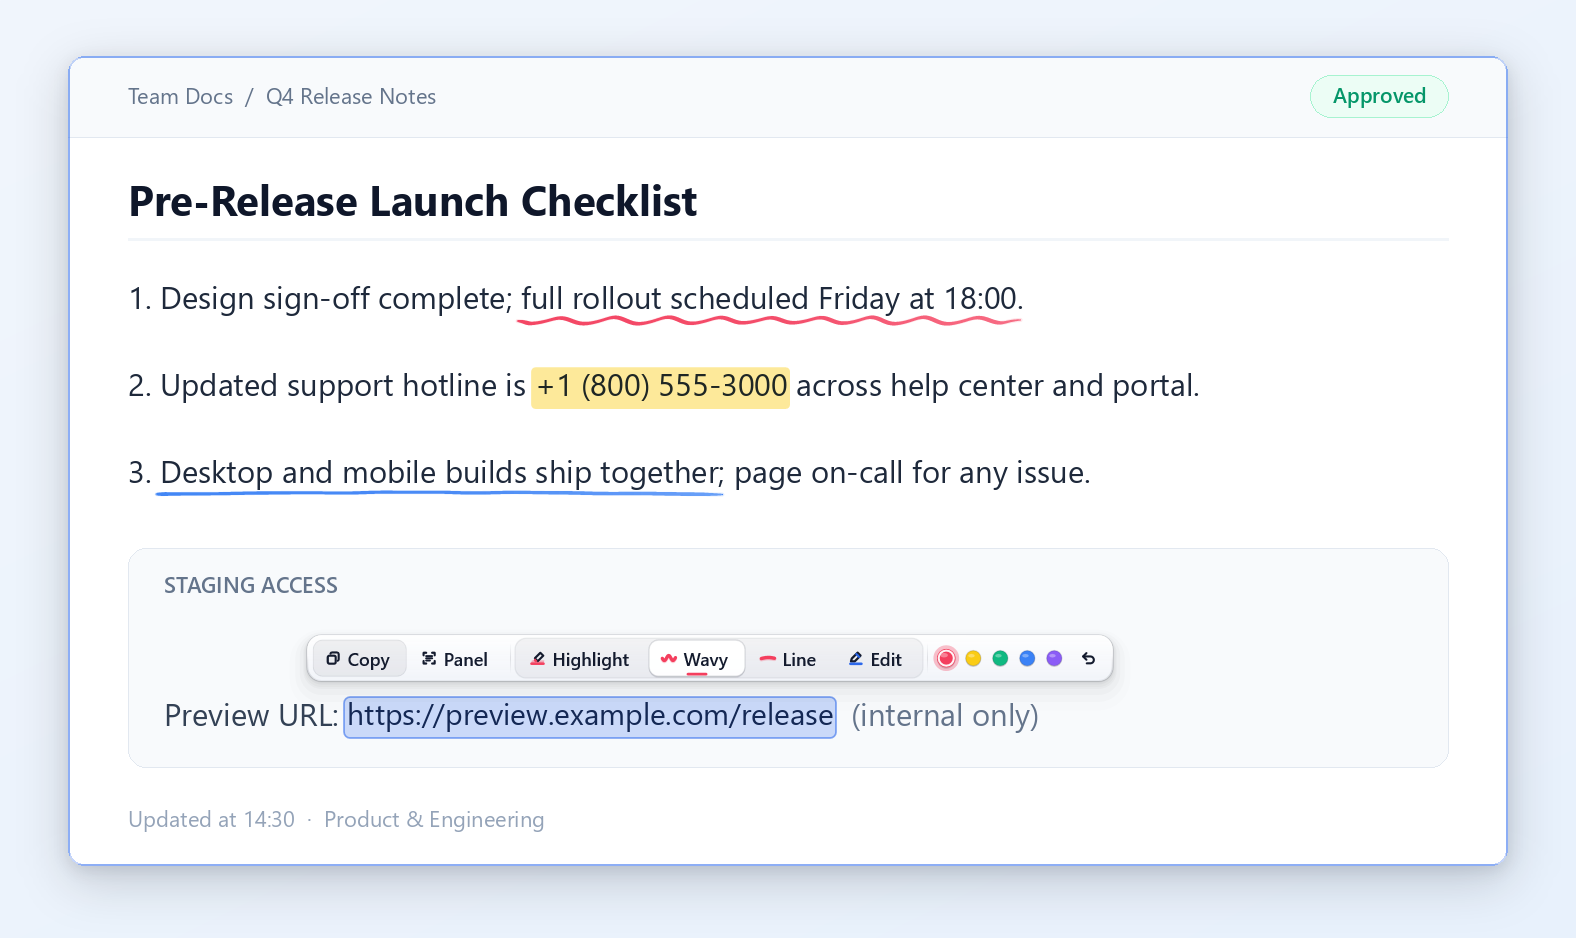
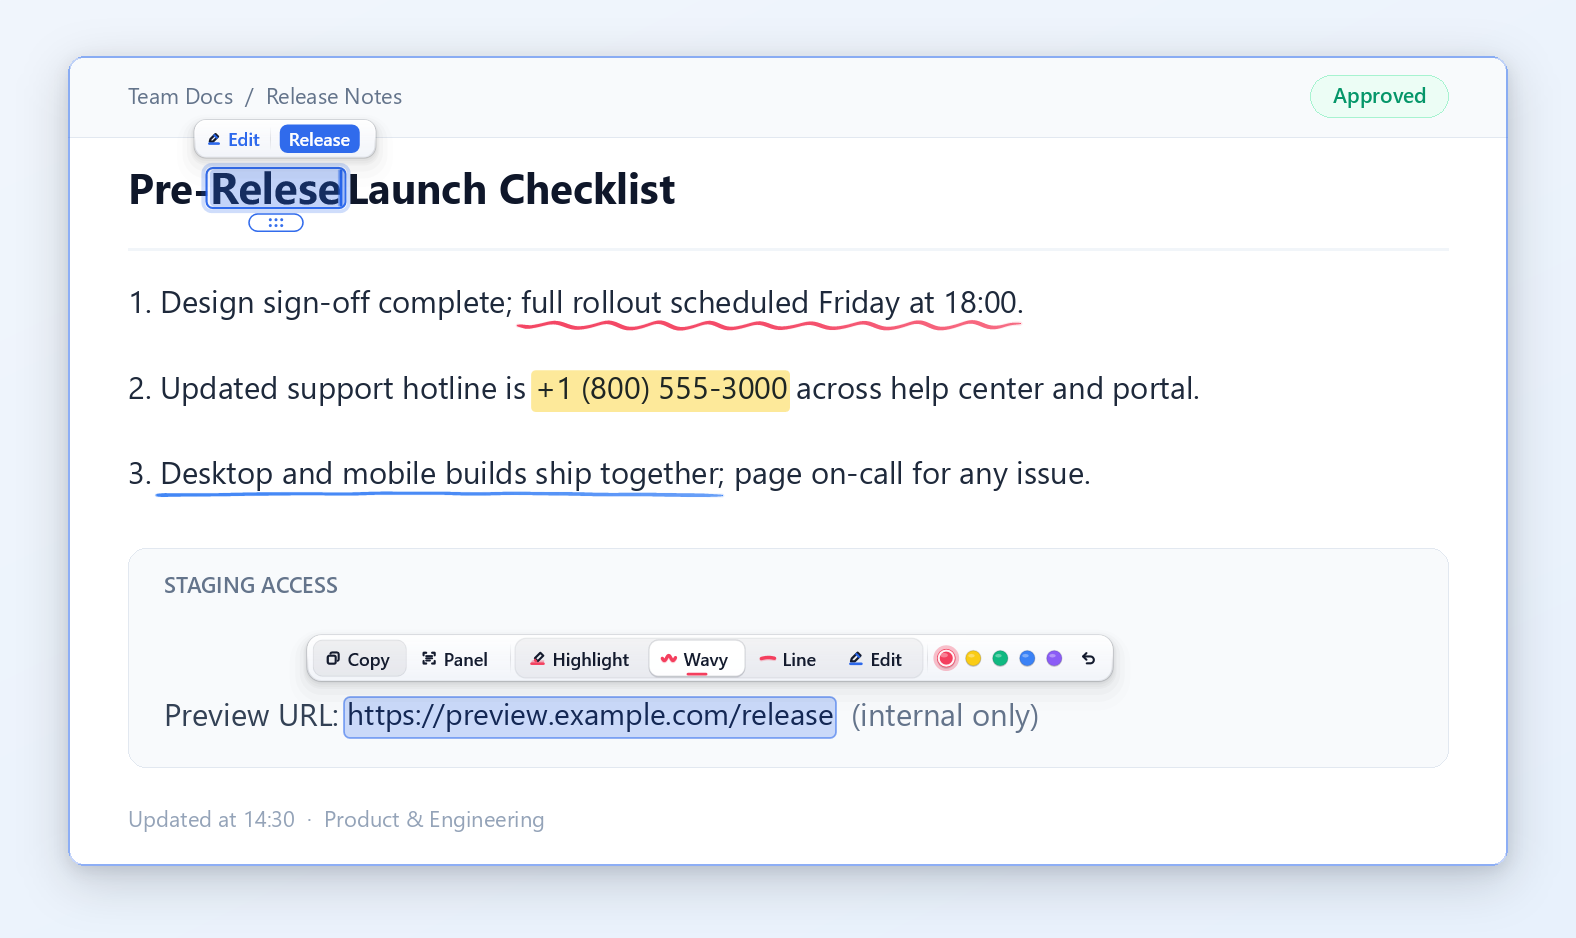
增强拍屏低反差 OCR 识别、修复贴图上下跨区拖选截断并补齐双语原位改字展示图
[业务角度]
- 提升手机拍屏 ERP 表格等低反差深灰表头与强摩尔纹场景下的离线 OCR 召回率与字准（补齐深灰表头文字及紧贴黑线的短数字），原生清晰桌面截图保持零耗时直通
- 修复贴图窗口在上下堆叠多版面图片上从上往下流式拖选时右侧文字被隐形竖线截断的体验问题，确保拖选所见即所得
- 更新中英双语 README 首屏展示图，以“新版本发[不|]前核对清单”原位编辑错别字直观呈现原位无痕改字能力

[技术角度]
- 在 DeepOcrEngine 新增 isLowContrastScreenPhoto 快采样判据与 enhanceLowContrastForDetection（LAB 色度通道高斯平滑去彩纹 + L 通道温和 CLAHE 融合），实行检测/识别双分支解耦并将识别切片低反差拉伸阈值放宽至 132
- 在 PinWindow 跨版面分区流式选字分支中引入 sideBySideColumns 几何判别，仅真正左右并排双栏走带可见引导框（m_showCrossRegionRectGuide）的二维围选，上下堆叠分区维持完整阅读序流式选字
- 新增 DeepOcrLowContrastScreenPhotoEnhancementTest 与真窗口回归测试 PinWindowCrossRegionVerticalFlowSelectionTest，全套单测及日志/内存门禁通过

diff --git a/src/capture/PinWindow.cpp b/src/capture/PinWindow.cpp
@@ -2917,6 +2917,7 @@ void PinWindow::clearTextSelection() {
     m_hoveredBlockIndex = -1;
     m_isSelectingText = false;
     m_isCharStreamSelecting = false;
+    m_showCrossRegionRectGuide = false;
     m_anchorBlockIndex = -1;
     m_anchorCharIndex = 0;
     m_ocrMarkupPreviewClean = false;
@@ -4743,8 +4744,8 @@ void PinWindow::render() {
                 ? (sumSelCenterX / static_cast<float>(selRectCount))
                 : (size.width * 0.5f);
 
-            // 3. Alt 矩形框选模式时绘制橡皮筋框（流式逐字拖选紧贴文字本身，无需画矩形外框）
-            if (m_isSelectingText && !m_isCharStreamSelecting) {
+            // 3. Alt 矩形框选模式或真正跨左右双栏围选时绘制橡皮筋引导框，确保所见即所得（杜绝无视觉提示的“隐形竖刀”截断）
+            if (m_isSelectingText && (!m_isCharStreamSelecting || m_showCrossRegionRectGuide)) {
                 float sx1 = static_cast<float>((std::min)(m_selectStart.x, m_selectEnd.x));
                 float sy1 = static_cast<float>((std::min)(m_selectStart.y, m_selectEnd.y));
                 float sx2 = static_cast<float>((std::max)(m_selectStart.x, m_selectEnd.x));
@@ -6570,6 +6571,7 @@ LRESULT CALLBACK PinWindow::pinWndProc(HWND hwnd, UINT msg, WPARAM wParam, LPARA
 
                                 std::vector<size_t> newIndices;
                                 std::vector<PinBlockCharSpan> newSpans;
+                                self->m_showCrossRegionRectGuide = false;
 
                                 if (targetBlock == self->m_anchorBlockIndex) {
                                     const auto& blk = self->m_ocrBlocks[static_cast<size_t>(targetBlock)];
@@ -6656,35 +6658,90 @@ LRESULT CALLBACK PinWindow::pinWndProc(HWND hwnd, UINT msg, WPARAM wParam, LPARA
                                         }
                                     }
                                 } else if (targetBlock >= 0) {
-                                    // 跨不同版面分栏拖选时自动转为二维几何包围框选字，绝不跨栏卷入整列无关行
-                                    const float sx1 = (std::min)(startMx, curMx);
-                                    const float sy1 = (std::min)(startMy, curMy);
-                                    const float sx2 = (std::max)(startMx, curMx);
-                                    const float sy2 = (std::max)(startMy, curMy);
-                                    for (size_t i = 0; i < self->m_ocrBlocks.size(); ++i) {
-                                        const auto& blk = self->m_ocrBlocks[i];
-                                        const auto& b = blk.origBox;
-                                        if (static_cast<float>(b.x + b.width) < sx1 ||
-                                            static_cast<float>(b.x) > sx2 ||
-                                            static_cast<float>(b.y + b.height) < sy1 ||
-                                            static_cast<float>(b.y) > sy2) {
-                                            continue;
-                                        }
-                                        size_t firstC = blk.charBoxes.size();
-                                        size_t lastC = 0;
-                                        for (size_t c = 0; c < blk.charBoxes.size(); ++c) {
-                                            const auto& cb = blk.charBoxes[c];
-                                            const float cx = static_cast<float>(cb.x) + static_cast<float>(cb.width) * 0.5f;
-                                            if (cx >= sx1 && cx <= sx2 &&
-                                                static_cast<float>(cb.y + cb.height) >= sy1 &&
-                                                static_cast<float>(cb.y) <= sy2) {
-                                                firstC = (std::min)(firstC, c);
-                                                lastC = (std::max)(lastC, c + 1);
+                                    // 判断起止分区是否为真正的「左右并排双栏」：
+                                    // - 仅左右并排双栏（垂直显著重叠且水平分离）采用带可见引导框的二维围选，防止跨栏误卷无关列；
+                                    // - 上下堆叠分段（如上方表格 + 下方装箱卡/标题 + 正文）维持自然阅读序流式选字，绝不静默腰斩右侧文字！
+                                    const int targetRegId = self->m_ocrBlocks[static_cast<size_t>(targetBlock)].layoutRegionId;
+                                    auto computeRegionBounds = [&](int rid) {
+                                        float rx1 = FLT_MAX, ry1 = FLT_MAX, rx2 = -FLT_MAX, ry2 = -FLT_MAX;
+                                        for (const auto& rb : self->m_ocrBlocks) {
+                                            if (rb.layoutRegionId == rid) {
+                                                rx1 = (std::min)(rx1, static_cast<float>(rb.origBox.x));
+                                                ry1 = (std::min)(ry1, static_cast<float>(rb.origBox.y));
+                                                rx2 = (std::max)(rx2, static_cast<float>(rb.origBox.x + rb.origBox.width));
+                                                ry2 = (std::max)(ry2, static_cast<float>(rb.origBox.y + rb.origBox.height));
                                             }
                                         }
-                                        if (firstC < lastC) {
-                                            newIndices.push_back(i);
-                                            newSpans.push_back(PinBlockCharSpan{i, firstC, lastC});
+                                        return std::array<float, 4>{rx1, ry1, rx2, ry2};
+                                    };
+                                    const auto aB = computeRegionBounds(anchorRegId);
+                                    const auto tB = computeRegionBounds(targetRegId);
+                                    const float aW = (std::max)(1.0f, aB[2] - aB[0]);
+                                    const float aH = (std::max)(1.0f, aB[3] - aB[1]);
+                                    const float tW = (std::max)(1.0f, tB[2] - tB[0]);
+                                    const float tH = (std::max)(1.0f, tB[3] - tB[1]);
+                                    const float overlapX = (std::max)(0.0f, (std::min)(aB[2], tB[2]) - (std::max)(aB[0], tB[0]));
+                                    const float overlapY = (std::max)(0.0f, (std::min)(aB[3], tB[3]) - (std::max)(aB[1], tB[1]));
+                                    const bool sideBySideColumns =
+                                        (overlapY / (std::min)(aH, tH) >= 0.40f) &&
+                                        (overlapX / (std::min)(aW, tW) < 0.25f);
+
+                                    if (sideBySideColumns) {
+                                        self->m_showCrossRegionRectGuide = true;
+                                        const float sx1 = (std::min)(startMx, curMx);
+                                        const float sy1 = (std::min)(startMy, curMy);
+                                        const float sx2 = (std::max)(startMx, curMx);
+                                        const float sy2 = (std::max)(startMy, curMy);
+                                        for (size_t i = 0; i < self->m_ocrBlocks.size(); ++i) {
+                                            const auto& blk = self->m_ocrBlocks[i];
+                                            const auto& b = blk.origBox;
+                                            if (static_cast<float>(b.x + b.width) < sx1 ||
+                                                static_cast<float>(b.x) > sx2 ||
+                                                static_cast<float>(b.y + b.height) < sy1 ||
+                                                static_cast<float>(b.y) > sy2) {
+                                                continue;
+                                            }
+                                            size_t firstC = blk.charBoxes.size();
+                                            size_t lastC = 0;
+                                            for (size_t c = 0; c < blk.charBoxes.size(); ++c) {
+                                                const auto& cb = blk.charBoxes[c];
+                                                const float cx = static_cast<float>(cb.x) + static_cast<float>(cb.width) * 0.5f;
+                                                if (cx >= sx1 && cx <= sx2 &&
+                                                    static_cast<float>(cb.y + cb.height) >= sy1 &&
+                                                    static_cast<float>(cb.y) <= sy2) {
+                                                    firstC = (std::min)(firstC, c);
+                                                    lastC = (std::max)(lastC, c + 1);
+                                                }
+                                            }
+                                            if (firstC < lastC) {
+                                                newIndices.push_back(i);
+                                                newSpans.push_back(PinBlockCharSpan{i, firstC, lastC});
+                                            }
+                                        }
+                                    } else {
+                                        // 上下堆叠跨区流式选字：按阅读序自然跨过全行内容，右侧字符完整保留
+                                        const size_t caretChar = locateNearestCharInBlock(
+                                            self->m_ocrBlocks[static_cast<size_t>(targetBlock)], curMx);
+                                        int b1 = self->m_anchorBlockIndex;
+                                        size_t c1 = self->m_anchorCharIndex;
+                                        int b2 = targetBlock;
+                                        size_t c2 = caretChar;
+                                        if (b1 > b2) {
+                                            std::swap(b1, b2);
+                                            std::swap(c1, c2);
+                                        }
+                                        for (int b = b1; b <= b2; ++b) {
+                                            const auto& blk = self->m_ocrBlocks[static_cast<size_t>(b)];
+                                            const size_t totalC = blk.charBoxes.size();
+                                            if (totalC == 0) continue;
+                                            size_t sc = 0;
+                                            size_t ec = totalC;
+                                            if (b == b1) sc = (std::min)(c1, totalC - 1);
+                                            if (b == b2) ec = (std::min)(totalC, c2 + 1);
+                                            if (sc < ec) {
+                                                newIndices.push_back(static_cast<size_t>(b));
+                                                newSpans.push_back(PinBlockCharSpan{static_cast<size_t>(b), sc, ec});
+                                            }
                                         }
                                     }
                                 }
@@ -6847,6 +6904,7 @@ LRESULT CALLBACK PinWindow::pinWndProc(HWND hwnd, UINT msg, WPARAM wParam, LPARA
                 self->m_isSelectingReplaceText = false;
                 self->m_isDraggingReplacePos = false;
                 self->m_isCharStreamSelecting = false;
+                self->m_showCrossRegionRectGuide = false;
             }
             return 0;
         }
@@ -6871,6 +6929,7 @@ LRESULT CALLBACK PinWindow::pinWndProc(HWND hwnd, UINT msg, WPARAM wParam, LPARA
                 if (self->m_isSelectingText) {
                     self->m_isSelectingText = false;
                     self->m_isCharStreamSelecting = false;
+                    self->m_showCrossRegionRectGuide = false;
                     ReleaseCapture();
                     self->render();
                     return 0;

diff --git a/src/ocr/DeepOcrEngine.cpp b/src/ocr/DeepOcrEngine.cpp
@@ -1085,6 +1085,82 @@ bool DeepOcrEngine::ensureModelsLoadedLocked(const std::filesystem::path& modelD
     }
 }
 
+bool DeepOcrEngine::isLowContrastScreenPhoto(const cv::Mat& bgr) {
+    if (bgr.empty() || bgr.cols < 64 || bgr.rows < 64 || bgr.type() != CV_8UC3) {
+        return false;
+    }
+
+    // 4px 步长快采样 (< 0.2ms)，精准区分原生数字渲染截图与手机实拍/屏摄低反差摩尔纹照片
+    constexpr int kStep = 4;
+    uint32_t sampled = 0;
+    uint32_t midGrayCount = 0;
+    uint32_t pureWhiteCount = 0;
+    uint32_t flatPairs = 0;
+    uint32_t totalPairs = 0;
+
+    for (int y = 0; y < bgr.rows; y += kStep) {
+        const auto* row = bgr.ptr<cv::Vec3b>(y);
+        int prevLum = -1;
+        for (int x = 0; x < bgr.cols; x += kStep) {
+            const int lum = (static_cast<int>(row[x][0]) * 29 +
+                             static_cast<int>(row[x][1]) * 150 +
+                             static_cast<int>(row[x][2]) * 77) >> 8;
+            ++sampled;
+            if (lum >= 50 && lum <= 200) ++midGrayCount;
+            if (lum >= 242) ++pureWhiteCount;
+            if (x + 1 < bgr.cols) {
+                const int nextLum = (static_cast<int>(row[x + 1][0]) * 29 +
+                                     static_cast<int>(row[x + 1][1]) * 150 +
+                                     static_cast<int>(row[x + 1][2]) * 77) >> 8;
+                ++totalPairs;
+                if (nextLum == lum) ++flatPairs;
+            }
+            prevLum = lum;
+        }
+        (void)prevLum;
+    }
+
+    if (sampled < 64 || totalPairs < 64) {
+        return false;
+    }
+
+    const float flatRatio = static_cast<float>(flatPairs) / static_cast<float>(totalPairs);
+    const float midGrayRatio = static_cast<float>(midGrayCount) / static_cast<float>(sampled);
+    const float pureWhiteRatio = static_cast<float>(pureWhiteCount) / static_cast<float>(sampled);
+
+    // 原生数字截图平坦度通常 >= 0.70 或具有大片纯白底色；实拍/屏摄照片通常平坦度 < 0.45 且大面积挤在中灰区间
+    return (flatRatio < 0.45f) && (midGrayRatio >= 0.45f) && (pureWhiteRatio < 0.15f);
+}
+
+cv::Mat DeepOcrEngine::enhanceLowContrastForDetection(const cv::Mat& bgr) {
+    if (!isLowContrastScreenPhoto(bgr)) {
+        return bgr;
+    }
+
+    // LAB 空间分离亮度和色度：平滑 a/b 色度通道压制手机拍屏 RGB 彩色摩尔纹，
+    // 对 L 亮度通道执行受限局部直方图均衡 (CLAHE) 并与原图柔和融合，避免过度锐化振铃伪影。
+    cv::Mat lab;
+    cv::cvtColor(bgr, lab, cv::COLOR_BGR2Lab);
+    std::vector<cv::Mat> channels;
+    cv::split(lab, channels);
+    if (channels.size() != 3) {
+        return bgr;
+    }
+
+    cv::GaussianBlur(channels[1], channels[1], cv::Size(5, 5), 1.2);
+    cv::GaussianBlur(channels[2], channels[2], cv::Size(5, 5), 1.2);
+
+    auto clahe = cv::createCLAHE(2.2, cv::Size(8, 8));
+    cv::Mat lEq;
+    clahe->apply(channels[0], lEq);
+    cv::addWeighted(lEq, 0.68, channels[0], 0.32, 0.0, channels[0]);
+
+    cv::Mat enhancedLab, enhancedBgr;
+    cv::merge(channels, enhancedLab);
+    cv::cvtColor(enhancedLab, enhancedBgr, cv::COLOR_Lab2BGR);
+    return enhancedBgr;
+}
+
 std::vector<DbDetectedQuad> DeepOcrEngine::postprocessDbMap(
     const cv::Mat& probMapInput,
     int origWidth,
@@ -1620,6 +1696,7 @@ std::vector<OcrResult> DeepOcrEngine::extractText(const cv::Mat& image) {
             cv::Mat detValid;
             cv::resize(bgr, detValid, cv::Size(validW, validH), 0.0, 0.0,
                        fitScale < 1.0f ? cv::INTER_AREA : cv::INTER_LINEAR);
+            detValid = enhanceLowContrastForDetection(detValid);
 
             cv::Mat detCanvas;
             if (validW == canvasW && validH == canvasH) {
@@ -1703,6 +1780,7 @@ std::vector<OcrResult> DeepOcrEngine::extractText(const cv::Mat& image) {
             cv::Mat detResized;
             cv::resize(bgr, detResized, cv::Size(alignW, alignH), 0.0, 0.0,
                        desiredRatio < 1.0f ? cv::INTER_AREA : cv::INTER_LINEAR);
+            detResized = enhanceLowContrastForDetection(detResized);
             cv::Mat detBlob = makeDbNetBlob(detResized);
             m_detNet.setInput(detBlob);
             probOut = m_detNet.forward();
@@ -1882,8 +1960,8 @@ std::vector<OcrResult> DeepOcrEngine::extractText(const cv::Mat& image) {
         };
 
         // 弱对比度屏摄/反光灰字条带自适应提纯：
-        // 仅在送入 SVTR 前的 48px 高度条带灰度动态范围 (P95 - P05) 落在 [16, 112) 时生效，
-        // 通过查表平滑拉伸动态范围（增益上限 2.35x），正常高对比度截图 (>=112) 100% 零改动直通。
+        // 仅在送入 SVTR 前的 48px 高度条带灰度动态范围 (P95 - P05) 落在 [16, 132) 时生效，
+        // 通过查表平滑拉伸动态范围（增益上限 2.35x），正常高对比度截图 (>=132) 100% 零改动直通。
         auto enhanceLowContrastStripCrop = [](cv::Mat& bgr48) {
             if (bgr48.empty() || bgr48.type() != CV_8UC3) return;
             std::array<uint32_t, 256> hist{};
@@ -1913,7 +1991,7 @@ std::vector<OcrResult> DeepOcrEngine::extractText(const cv::Mat& image) {
             const int p95 = pctBin((total * 95u) / 100u);
             const int p98 = pctBin((total * 98u) / 100u);
             const int dynRange = p95 - p05;
-            if (dynRange < 16 || dynRange >= 112) return;
+            if (dynRange < 16 || dynRange >= 132) return;
 
             const float lo = static_cast<float>(p02);
             const float hi = static_cast<float>((std::max)(p98, p02 + 16));

diff --git a/src/ocr/DeepOcrEngine.h b/src/ocr/DeepOcrEngine.h
@@ -148,6 +148,12 @@ public:
 
     // ── 纯算法核心原语（供生产推理与高覆盖率离线单元测试直接调用） ───────────
 
+    /// 检测图像是否属于低反差/深灰底/摩尔纹屏摄或实拍照片（原生清晰桌面截图快速返回 false，零开销直通）
+    static bool isLowContrastScreenPhoto(const cv::Mat& bgr);
+
+    /// 面向 DBNet 检测分支的轻量 LAB 色度去彩纹 + 局部 CLAHE 自适应增强（原生清晰截图零改动直通）
+    static cv::Mat enhanceLowContrastForDetection(const cv::Mat& bgr);
+
     /// DBNet 概率图后处理：二值化、轮廓过滤、多边形均分校验、Unclip 外扩与四点正交排序
     static std::vector<DbDetectedQuad> postprocessDbMap(
         const cv::Mat& probMap,

diff --git a/src/capture/PinWindow.h b/src/capture/PinWindow.h
@@ -413,6 +413,7 @@ private:
     bool m_isSelectingText = false;
     bool m_isSelectingReplaceText = false;
     bool m_isCharStreamSelecting = false;
+    bool m_showCrossRegionRectGuide = false;
     int m_anchorBlockIndex = -1;
     size_t m_anchorCharIndex = 0;
     POINT m_selectStart{};

diff --git a/PROJECT_MEMORY.md b/PROJECT_MEMORY.md
@@ -2164,3 +2164,16 @@
   6. **搜索服务策略 B（C++ SEH/MFT 安全壳 + Rust 7 模块物理分层 SIMD 全文检索静态库 `tools3000_content_rs`）**：
      - 保留 `Tools3000_Service` 的 Win32 SCM `DEMAND_START` 服务生命周期、USN 实时监听、SQLite WAL、PDF/Office/IFilter 提取器及 `PlainTextExtractor` 的 `__try / __except (EXCEPTION_IN_PAGE_ERROR)` 内存映射抗硬件断联保护壳；
      - 将 CPU 密集的编码嗅探、SIMD 换行跳跃、多词 AND 大小写折叠匹配与 UTF-16 代理对安全摘要裁剪下沉至 Rust 静态库 `src/service/rust_content/`，并严格遵循物理分层拆分为 7 个职责单一模块（`constants.rs`、`encoding.rs`、`simd.rs`、`snippet.rs`、`matcher.rs`、`ffi.rs`、`lib.rs`）。
+
+
+---
+
+## 2026-11-20 离线 OCR 拍屏低反差增强、贴图跨区流式选字修复与双语精装 README 演进
+1. **PP-OCRv4 检测/识别双分支低反差拍屏摩尔纹增强 (`src/ocr/DeepOcrEngine.{h,cpp}`)**:
+   - **根因**：手机翻拍 ERP 屏幕时存在深灰表头低反差与 RGB 彩色摩尔纹，导致 DBNet 检测漏掉表头与紧邻黑线的短数字（如 `77` 漏成 `7`），同时若在识别阶段强锐化会给高清晰小字引入振铃误识。
+   - **架构解法**：新增 `DeepOcrEngine::isLowContrastScreenPhoto()`（4px 快采样判定平坦度 `< 0.45`、中灰占比 `>= 0.45` 且纯白 `< 0.15`，原生清晰桌面截图 0ms 零改动直通）与 `enhanceLowContrastForDetection()`（LAB 空间 `a/b` 通道 `5x5` 高斯压彩纹 + `L` 通道温和 `CLAHE(2.2, 8x8)` 68/32 融合），仅作用于检测输入，识别切片仍从纯净原图裁剪并将 `enhanceLowContrastStripCrop` 动态范围上限由 `112` 调优至 `132`。配套 `DeepOcrLowContrastScreenPhotoEnhancementTest`。
+2. **贴图上下跨区流式选字修复 (`src/capture/PinWindow.{h,cpp}`)**:
+   - **根因**：在“上方大表 + 下方装箱卡”等上下堆叠多版面分区图片上普通左键从上往下流式拖选时，跨入不同 `layoutRegionId` 会静默退化为无视觉引导框的二维矩形围选，将终点 X 右侧所有已识别文字（甚至单个词后半段）一刀切掉，造成右侧漏识别错觉。
+   - **架构解法**：区分起止分区是否为真正左右并排双栏（`sideBySideColumns`：垂直重叠 `>= 40%` 且水平重叠 `< 25%`）；仅左右并排双栏走带可见橡皮筋引导框（`m_showCrossRegionRectGuide`）的二维围选，上下堆叠分区保持完整阅读序流式选字，杜绝右侧腰斩。配套真窗口回归测试 `PinWindowCrossRegionVerticalFlowSelectionTest`。
+3. **中英双语精装 README 与原位改字视觉资产 (`README.md`, `README.en.md`, `docs/DEVELOPER.md`, `docs/images/{zh-CN,en-US}/scene_pin_live_text_wavy.png`)**:
+   - README 瘦身至 118 行极简名片风，研发/架构/构建文档外链收口至 `docs/DEVELOPER.md`；调用真实 `TextReplaceEngine` + `MarkupEngine` + `FloatingGlassBar` + `CaptureVectorIcons` 产出含错别字原位编辑（`新版本发[不|]前核对清单` + `bu | 1. 布 2. 步 3. 部`）、波浪线、荧光笔、直线与划选复制的 1.5x 双语实景展示图。
